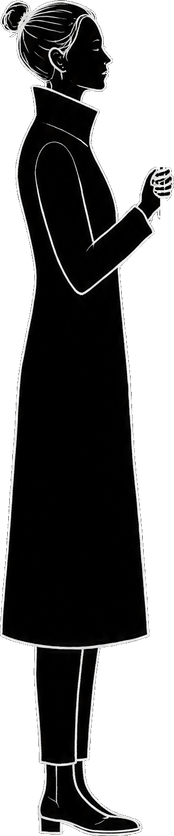
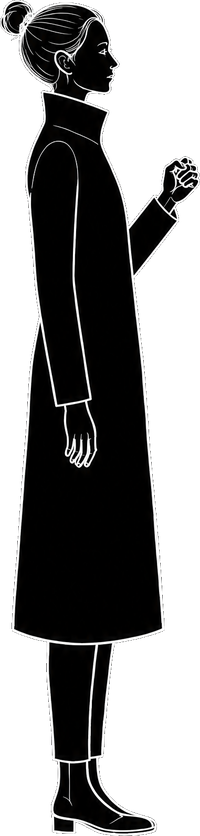
Intro: she lowers the umbrella in the same hand she caught it with (new holding drawing)
Claude-Session: https://claude.ai/code/session_01HVweuKuKSvnRT3N2xFaE8X

Changed region(s): [[0.0, 0.0, 1.0, 1.0], [0.4598, 0.2177, 0.4885, 0.2488]]

diff --git a/src/components/intro/IntroFilm.jsx b/src/components/intro/IntroFilm.jsx
@@ -68,9 +68,9 @@ const HOLD = (() => {
   const w = r.w * kOf("a5-hold"), h = r.h * kOf("a5-hold");
   return { x: 800 - r.cx * w + r.hand[0] * w, y: 640 - h + r.hand[1] * h };
 })();
-// the open umbrella's shaft, in rows of its artwork (745 tall): the canopy part keeps rows 0-470 (canopy rim at 267,
-// hook starts at 686), the handle part keeps 465 down; the canopy slides 209 rows (68 canvas units) down over the handle
-const SHAFT_SPLIT = { canopyTo: 470, handleFrom: 465, slide: 209 };
+// the open umbrella's shaft, in rows of its artwork (745 tall): the canopy part keeps rows 0-462 (canopy rim at 267,
+// hook starts at 686), the handle part keeps 457 down; the canopy slides 220 rows (72 canvas units) down over the handle
+const SHAFT_SPLIT = { canopyTo: 462, handleFrom: 457, slide: 220 };
 const HAND = (() => {
   const r = POSES["a2-reach"];
   if (!r) return { x: 850, y: 370 };
